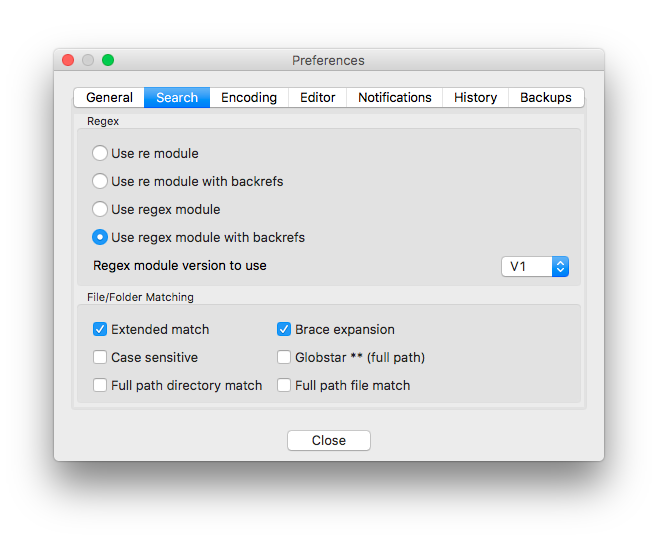
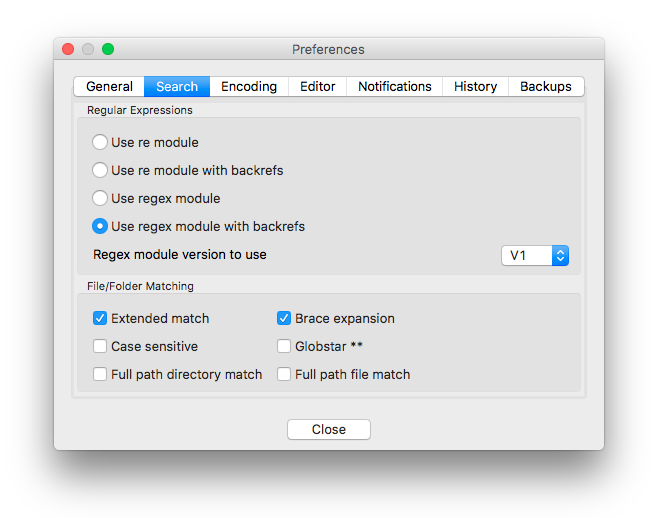
Update image and text for dialog

diff --git a/rummage/lib/gui/settings_dialog.py b/rummage/lib/gui/settings_dialog.py
@@ -172,7 +172,7 @@ class SettingsDialog(gui.SettingsDialog):
         self.CASE = _("Case sensitive")
         self.FULL_PATH = _("Full path directory match")
         self.FULL_FILE = _("Full path file match")
-        self.GLOBSTAR = _("Globstar ** (full path)")
+        self.GLOBSTAR = _("Globstar **")
         self.REGEX_GROUP = _("Regular Expressions")
         self.FILE_MATCH_GROUP = _("File/Folder Matching")
         self.RE = _("Use re module")
